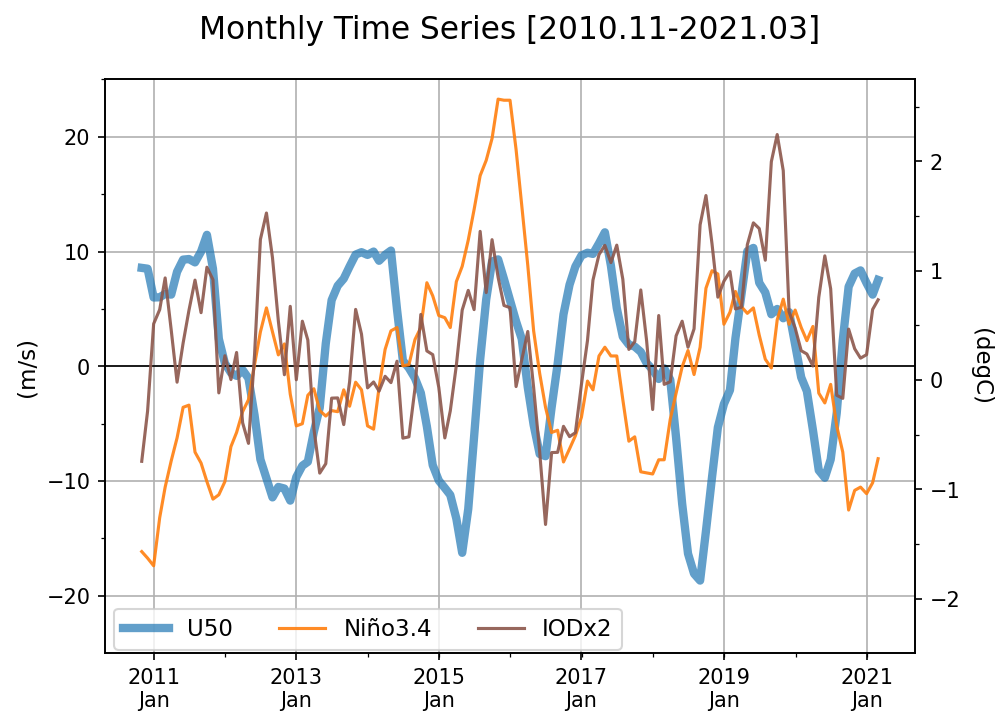
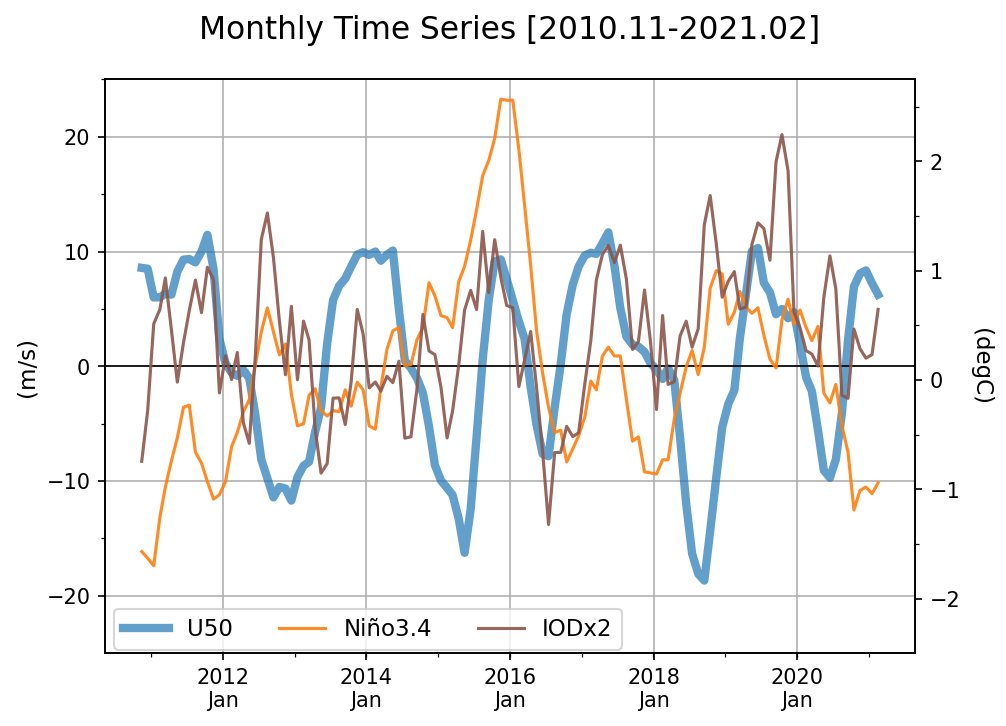
2021.0716

diff --git a/F.Datetime_and_Time_Series/F04_daily_to_pentad_monthly.py b/F.Datetime_and_Time_Series/F04_daily_to_pentad_monthly.py
@@ -1,8 +1,8 @@
 """
 Daily to Pentad/Monthly example using RMM MJO indices
-: Daily to pentad (using Numpy)
-: Daily to monthly (using Numpy)
-: Daily to monthly (using Pandas)
+: Daily to pentad1/2 (using Numpy)
+: Daily to monthly1 (using Numpy)
+: Daily to monthly2 (using Pandas)
 
 By Daeho Jin
 """
@@ -38,7 +38,7 @@ def daily_to_pentad2(ts1d,xt,tgt_dates,tdelta=5):
         xt_ptd1= xt[tidx+int((tdelta-1)/2):tidx+365:tdelta]
         ts_ptd.append(ts_ptd1)
         xt_ptd.append(xt_ptd1)
-        date1= date1+timedelta(days=365)
+        date1= date(date1.year+1,date1.month,date1.day)
 
     return np.concatenate(ts_ptd),np.concatenate(xt_ptd)
 
@@ -64,7 +64,7 @@ def daily_to_monthly1(ts1d,tgt_dates):
         if ndy>20:  # minimum days to represent a month
             tidx= (date1-tgt_dates[0]).days
             ts_mm.append(ts1d[tidx:tidx+ndy].mean())
-            xt_mm.append(date(yr1,mm1,15))
+            xt_mm.append(date(yr1,mm1,int(ndy/2+0.5)))
             date1= date2
         else:
             break
@@ -76,7 +76,7 @@ def daily_to_monthly_wPandas(ts1d,tgt_dates):
     Temporal mean is performed based on calendar month.
     """
     if ts1d.ndim==1:
-        data1= np.copy(ts1d).reshape([-1,1])
+        data1= ts1d.reshape([-1,1])
     elif ts1d.ndim==2:
         data1= ts1d
     else:
@@ -85,7 +85,7 @@ def daily_to_monthly_wPandas(ts1d,tgt_dates):
     df1= pd.DataFrame(data1,index=pd.date_range(*tgt_dates,freq='D'))
     df1= df1.resample('M').mean()
     data1= df1.to_numpy()  # Convert to numpy array
-    xt= df1.index #.values
+    xt= df1.index
     return np.squeeze(data1), xt
 
 def main():
@@ -137,21 +137,7 @@ def main():
 
 import matplotlib.pyplot as plt
 from matplotlib.ticker import MultipleLocator,AutoMinorLocator,FuncFormatter
-from matplotlib.dates import DateFormatter
-def plot_common(ax1,subtit):
-    ax1.set_title(subtit,fontsize=12,x=0,ha='left')
-
-    ax1.xaxis.set_major_formatter(DateFormatter("%Y\n%b"))
-    ax1.xaxis.set_minor_locator(AutoMinorLocator(2))
-
-    ax1.set_ylim(-2.5,3.5)
-    ax1.yaxis.set_minor_locator(AutoMinorLocator(2))
-    ax1.set_ylabel('RMM PC1',fontsize=11)
-
-    ax1.grid()
-    ax1.axhline(y=0,c='k',lw=0.8)
-    return
-
+from matplotlib.dates import DateFormatter, MonthLocator
 def plot_main(pdata):
     dx,dy= pdata['d_data']
     titles= pdata['titles']
@@ -178,11 +164,13 @@ def plot_main(pdata):
     for i,(tit,(xt,ydata)) in enumerate(zip(titles,ts_data)):
         ax1= fig.add_axes([ix,iy-lpny,lpnx,lpny])  # [left,bottom,width,height]
         ## Line plots
-        ax1.plot(dx,dy,c='C1',lw=1,alpha=0.9)
-        ax1.plot(xt,ydata,c='C0',lw=3,alpha=0.6)
+        ax1.plot(dx,dy,c='C1',lw=1,alpha=0.9,label='Daily')
+        ax1.plot(xt,ydata,c='C0',lw=3,alpha=0.6,label=tit.split()[0])
 
         subtit= '({}) {}'.format(abc[i],tit)
         plot_common(ax1,subtit)
+        ax1.legend(loc='upper left',bbox_to_anchor=(1.02,1.),borderaxespad=0.,edgecolor='k',
+                    fontsize=10,prop=dict(stretch='semi-condensed'))
 
         ix=ix+lpnx+gapx
         if ix>rf: ix=lf; iy=iy-lpny-gapy
@@ -191,6 +179,21 @@ def plot_main(pdata):
     fnout= pdata['fnout']; print(fnout)
     fig.savefig(fnout,bbox_inches='tight',dpi=150)
     plt.show()
+    return
+
+def plot_common(ax1,subtit):
+    ax1.set_title(subtit,fontsize=13,x=0,ha='left')
+
+    ax1.xaxis.set_major_formatter(DateFormatter("%Y\n%b"))
+    ax1.xaxis.set_minor_locator(MonthLocator())
+
+    ax1.set_ylim(-2.5,3.5)
+    ax1.yaxis.set_minor_locator(AutoMinorLocator(2))
+    ax1.set_ylabel('RMM PC1',fontsize=11)
+
+    ax1.grid()
+    ax1.axhline(y=0,c='k',lw=0.8)
+    ax1.tick_params(axis='both',labelsize=10)
     return
 
 if __name__ == "__main__":

diff --git a/N.Matplotlib_Basic_plus/N11_legend_inTwinX.py3.py b/N.Matplotlib_Basic_plus/N11_legend_inTwinX.py3.py
@@ -9,6 +9,12 @@ Reference:
 https://matplotlib.org/stable/api/axes_api.html#twinning-and-sharing
 https://matplotlib.org/stable/tutorials/intermediate/legend_guide.html
 https://matplotlib.org/stable/api/figure_api.html#matplotlib.figure.Figure.legend
+
+- For double twinx(), i.e. three(3) y-axis, see:
+https://matplotlib.org/stable/gallery/ticks_and_spines/multiple_yaxis_with_spines.html#sphx-glr-gallery-ticks-and-spines-multiple-yaxis-with-spines-py
+
+- For mathematical expressions:
+https://matplotlib.org/stable/tutorials/text/mathtext.html
 '''
 import numpy as np
 import matplotlib.pyplot as plt
@@ -43,32 +49,34 @@ line1=ax1.plot(x,y1,marker='^',label='1/x')  # plotting line graph1
 line2=ax1.plot(x,y2,marker='o',label='x^2')  # plotting line graph2
 subtit= '(a) Two lines in one axes'
 ax1.set_title(subtit,fontsize=13,x=0,ha='left')
-ax1.legend(loc='best')
+ax1.legend(loc='best',fontsize=11)
 
 ###--- Panel2: Applying twinx()
 ax2 = fig.add_subplot(nrow,ncol,2)
 ax2b = ax2.twinx()  # New axes shares the x-axis of ax1
 
-line1=ax2.plot(x,y1,marker='^',label='1/x')  # plotting line graph1
-line2=ax2b.plot(x,y2,marker='o',label='x^2')  # plotting line graph2
-subtit= '(b) Two lines in x-shared axes'
+line1=ax2.plot(x,y1,marker='v',label=r'$\frac{1}{x}$')  # plotting line graph1
+line2=ax2b.plot(x,y2,marker='s',label=r'$x^2$')  # plotting line graph2
+subtit= '(b) Two lines in twinx() setting'
 ax2.set_title(subtit,fontsize=13,x=0,ha='left')
-ax2.legend(loc='best')
-ax2b.legend(loc='best')
+ax2.legend(loc='best',fontsize=11)
+ax2b.legend(loc='best',fontsize=11)
 
 ###--- Panel3: Same twinx() but with legend handler
 ax3 = fig.add_subplot(nrow,ncol,3)
 ax3b = ax3.twinx()  # New axes shares the x-axis of ax1
 
-line1=ax3.plot(x,y1,marker='^',label='1/x')  # plotting line graph1
-line2=ax3b.plot(x,y2,marker='o',label='x^2')  # plotting line graph2
-subtit= '(c) Two lines in x-shared axes'
+line1=ax3.plot(x,y1,marker='<',label=r'$\frac{1}{x}$')  # plotting line graph1
+line2=ax3b.plot(x,y2,marker='*',label=r'$x^2$')  # plotting line graph2
+subtit= '(c) Two lines in twinx() setting + legend handles'
 ax3.set_title(subtit,fontsize=13,x=0,ha='left')
 
 ## Combine two legend boxes
 lines, labels = ax3.get_legend_handles_labels()
 lines2, labels2 = ax3b.get_legend_handles_labels()
-ax3.legend(lines + lines2, labels + labels2, loc='upper center', ncol=2)
+ax3.legend(lines + lines2, labels + labels2, loc='upper center', ncol=2,fontsize=11)
+# Or simpler version:
+#ax3.legend(handles=[line1[0],line2[0]], loc='upper center', ncol=2)
 
 ###--- Legend for whole figure
 fig.legend(bbox_to_anchor=(0.5, 0.03), loc='upper center',fontsize=11,

diff --git a/F.Datetime_and_Time_Series/F01_Plot_timeseries_monthly.py b/F.Datetime_and_Time_Series/F01_Plot_timeseries_monthly.py
@@ -17,7 +17,7 @@ import F00_common_functions as fns
 
 def main():
     ### Parameters
-    tgt_dates= (date(2010,11,1),date(2021,3,1))
+    tgt_dates= (date(2010,12,1),date(2021,2,28))
     tgt_dates_str= [dd.strftime('%Y.%m') for dd in tgt_dates]  # See Reference above
     mon_per_yr= 12
     times= fns.get_months(*tgt_dates,include_end=True)
@@ -49,7 +49,7 @@ def main():
 
 import matplotlib.pyplot as plt
 from matplotlib.ticker import MultipleLocator,AutoMinorLocator,FuncFormatter
-from matplotlib.dates import DateFormatter
+from matplotlib.dates import DateFormatter, YearLocator
 def plot_main(pdata):
     xt,yy= pdata['xt'],pdata['yy']
     data_labels= pdata['data_labels']
@@ -67,26 +67,30 @@ def plot_main(pdata):
 
     ### Plot time series
     ax1= fig.add_subplot(111)
-    ax1b= ax1.twinx()
     ax1.plot(xt,yy[0],c='C0',lw=4,alpha=0.7,label=data_labels[0])  # Use left y-axis
+
+    ax1b= ax1.twinx()
     ax1b.plot(xt,yy[1],c='C1',lw=1.5,alpha=0.9,label=data_labels[1])  # Use right y-axis
     ax1b.plot(xt,yy[2]*2,c='C5',lw=1.5,alpha=0.9,label=data_labels[2]+'x2') # Use right y-axis
 
     #ax1.set_title('(a) Monthly',fontsize=13,ha='left',x=0)
     ax1.set_xticks([date(yy,1,1) for yy in range(2011,2022,2)])
+    #ax1.xaxis.set_major_locator(YearLocator(base=2))  # Every 2 years; default: month=1, day=1
     ax1.xaxis.set_major_formatter(DateFormatter("%Y\n%b"))
     # <--- For more information of Date Format, see Reference above
     ax1.xaxis.set_minor_locator(AutoMinorLocator(2))
 
     ax1.set_ylim(-25,25)
-    ax1b.set_ylim(-2.5,2.75)
     ax1.yaxis.set_minor_locator(AutoMinorLocator(2))
-    ax1b.yaxis.set_minor_locator(AutoMinorLocator(2))
     ax1.set_ylabel('(m/s)',fontsize=11)
+
+    ax1b.set_ylim(-2.5,2.75)
+    ax1b.yaxis.set_minor_locator(AutoMinorLocator(2))
     ax1b.set_ylabel('(degC)',fontsize=11,rotation=-90,va='bottom')
 
     ax1.grid()
     ax1.axhline(y=0,c='k',lw=0.8)
+    ### Legend for twinx() case
     fig.legend(bbox_to_anchor=(0.06, 0.075), loc='lower left',fontsize=11,
                ncol=3, borderaxespad=0.)
 

diff --git a/N.Matplotlib_Basic_plus/N09_text+annotation.py3.py b/N.Matplotlib_Basic_plus/N09_text+annotation.py3.py
@@ -10,6 +10,8 @@ Reference:
 https://matplotlib.org/stable/api/_as_gen/matplotlib.axes.Axes.text.html
 https://matplotlib.org/stable/api/_as_gen/matplotlib.pyplot.figtext.html
 https://matplotlib.org/stable/api/_as_gen/matplotlib.axes.Axes.annotate.html
+- For mathematical expressions:
+https://matplotlib.org/stable/tutorials/text/mathtext.html
 '''
 import numpy as np
 import matplotlib.pyplot as plt
@@ -56,15 +58,18 @@ ax1.axhline(y=0.,color='k',linestyle=':')
 ax1.axvline(x=0.,color='k',ls=':',lw=0.5)
 
 ##-- Text and Annotation --##
-ax1.text(0.,16.,'Normal Text',ha='left',va='center',color='r')  # Data Coordinate by default
+ax1.text(0.,16.,'Normal Text',ha='left',va='center',color='r',fontsize=12)
+#<-- Data Coordinate by default. For "axes fraction," set "transform=ax.transAxes"
+ax1.annotate('Normal Text by annotate()',xy=(0.1,0.84),xycoords='axes fraction',
+            ha='left',va='center',color='b',fontsize=12)
 
 pos1=ax1.get_position().bounds  ##<= (left,bottom,width,height); Fraction in figure
-plt.figtext(pos1[0]+pos1[2]*0.15,pos1[1]+pos1[3]*0.75,'Figtext: Text in Pink Box',
+plt.figtext(pos1[0]+pos1[2]*0.15,pos1[1]+pos1[3]*0.7,'Figtext: Text in Pink Box',
             backgroundcolor='pink',color='k',fontsize=12,
             ha='left',va='bottom')   # Figure Coordinate by default
 
 ax1.annotate(r'$y=x^2$', xy=(3., 9.),  xycoords='data',
-             xytext=(3.5,4.), textcoords='data', size=12,
+             xytext=(3.5,4.), textcoords='data', fontsize=12,
              arrowprops=dict(arrowstyle="->", connectionstyle="arc3,rad=0.5"))
 ## Coords: 'figure fraction', 'axes fraction', 'data', etc.
 ## For numerical expression in Matplotlib, see https://matplotlib.org/stable/tutorials/text/mathtext.html

diff --git a/F.Datetime_and_Time_Series/F02_Plot_timeseries_seasonal.py b/F.Datetime_and_Time_Series/F02_Plot_timeseries_seasonal.py
@@ -17,7 +17,7 @@ import F00_common_functions as fns
 
 def main():
     ### Parameters
-    tgt_dates= (date(2010,11,1),date(2021,3,1))
+    tgt_dates= (date(2010,12,1),date(2021,2,28))
     tgt_dates_str= [dd.strftime('%Y/%m') for dd in tgt_dates]  # See Reference above
     mon_per_yr= 12
     times= fns.get_months(*tgt_dates,include_end=True)
@@ -27,7 +27,7 @@ def main():
     sn_names= ['DJF','MAM','JJA','SON']
     sn_idx= 0
     imon_idx= 13-tgt_dates[0].month + sn_idx*3  # Index for center month of season
-    if imon_idx>=12: imon_idx-=12
+    #if imon_idx>=12: imon_idx-=12
 
     ### Read QBO
     infn_qbo= indir+'data_qbo_u50.txt'
@@ -86,8 +86,9 @@ def plot_main(pdata):
 
     ### Plot time series
     ax1= fig.add_subplot(111)
-    ax1b= ax1.twinx()
     ax1.bar(xt,yy[0],width=300,color='C0',label=data_labels[0],alpha=0.7)  # Use left y-axis
+
+    ax1b= ax1.twinx()
     ax1b.plot(xt,yy[1],c='C1',lw=1.5,alpha=0.9,label=data_labels[1])  # Use right y-axis
     ax1b.plot(xt,yy[2]*2,c='C5',lw=1.5,alpha=0.9,label=data_labels[2]+'x2') # Use right y-axis
 
@@ -99,14 +100,16 @@ def plot_main(pdata):
     ax1.xaxis.set_minor_locator(AutoMinorLocator(2))
 
     ax1.set_ylim(-25,25)
-    ax1b.set_ylim(-2.5,2.75)
     ax1.yaxis.set_minor_locator(AutoMinorLocator(2))
-    ax1b.yaxis.set_minor_locator(AutoMinorLocator(2))
     ax1.set_ylabel('(m/s)',fontsize=11)
+
+    ax1b.set_ylim(-2.5,2.75)
+    ax1b.yaxis.set_minor_locator(AutoMinorLocator(2))
     ax1b.set_ylabel('(degC)',fontsize=11,rotation=-90,va='bottom')
 
     ax1.grid()
     ax1.axhline(y=0,c='k',lw=0.8)
+    ### Legend for twinx() case
     fig.legend(bbox_to_anchor=(0.06, 0.075), loc='lower left',fontsize=11,
                ncol=3, borderaxespad=0.)
 

diff --git a/E.Read_Write_NetCDF+HDF_file/E01_NetCDF_file_header_info_py3.py b/E.Read_Write_NetCDF+HDF_file/E01_NetCDF_file_header_info_py3.py
@@ -17,10 +17,10 @@ def main():
     indir= '../Data/'
 
     ### netCDF3 example:
-    #fname= indir+'AMO_HADLEY.1870-2010.CLM_1901-1970.nc'
+    fname= indir+'AMO_HADLEY.1870-2010.CLM_1901-1970.nc'
 
     ### netCDF4 example:
-    fname= indir+'CCMP_Wind_Analysis_20190101_V02.0_L3.0_RSS.nc'
+    #fname= indir+'CCMP_Wind_Analysis_20190101_V02.0_L3.0_RSS.nc'
 
     ### Open netcdf file
     nc_f= open_netcdf(fname)
@@ -52,9 +52,19 @@ def print_netcdf_details(nc_fid):
 
     ###--- Variables
     print("\n*** Variables ***")
-    for var in nc_fid.variables:
-        print(nc_fid.variables[var])
-        print('')
+    print(type(nc_fid.variables))
+    var_names= list(nc_fid.variables.keys())
+    for i, vn in enumerate(var_names):
+        print("{:3d}: {}".format(i+1,vn))
+
+    ##-- Select a variable to see the details
+    while True:
+        answer= input("\nIf want to attribute details, type the number of variable.\n")
+        if answer.isnumeric() and (int(answer)>0 and int(answer)<=len(var_names)):
+            vnm= var_names[int(answer)-1]
+            print(nc_fid.variables[vnm])
+        else:
+            break
 
     ###--- Attributes
     print("\n*** Global Attributes ***")

diff --git a/F.Datetime_and_Time_Series/F03_monthly_to_daily_interp.py b/F.Datetime_and_Time_Series/F03_monthly_to_daily_interp.py
@@ -92,7 +92,7 @@ def main():
 
 import matplotlib.pyplot as plt
 from matplotlib.ticker import MultipleLocator,AutoMinorLocator,FuncFormatter
-from matplotlib.dates import DateFormatter
+from matplotlib.dates import DateFormatter, MonthLocator
 def plot_main(pdata):
     mx,my= pdata['m_data']
     dx,dy= pdata['d_data']
@@ -116,9 +116,10 @@ def plot_main(pdata):
     ax1.plot(mx,my,c='C1',marker='^',markersize=10,lw=2,alpha=0.9,label=data_labels[0])
 
     ax1.xaxis.set_major_formatter(DateFormatter("%Y.%m"))
-    ax1.xaxis.set_minor_locator(AutoMinorLocator(2))
+    ax1.xaxis.set_major_locator(MonthLocator(interval=2))
+    ax1.xaxis.set_minor_locator(MonthLocator())
 
-    ax1.set_ylim(-2.,2.)
+    ax1.set_ylim(-1.5,1.5)
     ax1.yaxis.set_minor_locator(AutoMinorLocator(2))
     ax1.set_ylabel('(degC)',fontsize=11)
 

diff --git a/E.Read_Write_NetCDF+HDF_file/E05_HDF5_file_header_info_py3.py b/E.Read_Write_NetCDF+HDF_file/E05_HDF5_file_header_info_py3.py
@@ -32,11 +32,13 @@ def main():
     for i,key_name in enumerate(h5keys):
         print("{}: {}".format(i,key_name))
 
-    it=2  # Specific number of variable
-    hdf_key_details(hdf_f, h5keys[it])
-
-    it=13
-    hdf_key_details(hdf_f, h5keys[it])
+    ##-- Select a variable to see the details
+    while True:
+        answer= input("\nIf want to attribute details, type the number of variable.\n")
+        if answer.isnumeric() and (int(answer)>0 and int(answer)<=len(h5keys)):
+            hdf_key_details(hdf_f, h5keys[int(answer)-1])
+        else:
+            break
 
     hdf_f.close()
     return

diff --git a/N.Matplotlib_Basic_plus/N10_legend_ex.py3.py b/N.Matplotlib_Basic_plus/N10_legend_ex.py3.py
@@ -117,7 +117,7 @@ for i in range(nrow*ncol):
 
 #- If want to save to file
 outdir = "../Pics/"
-outfnm = outdir+"N02_legend_ex.png"
+outfnm = outdir+"N10_legend_ex.png"
 print(outfnm)
 #fig.savefig(outfnm,dpi=100)   # dpi: pixels per inch
 fig.savefig(outfnm,dpi=100,bbox_inches='tight')   # dpi: pixels per inch
